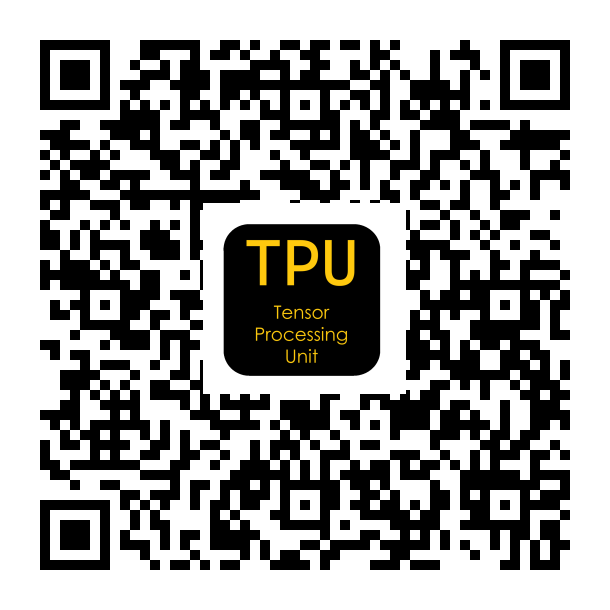
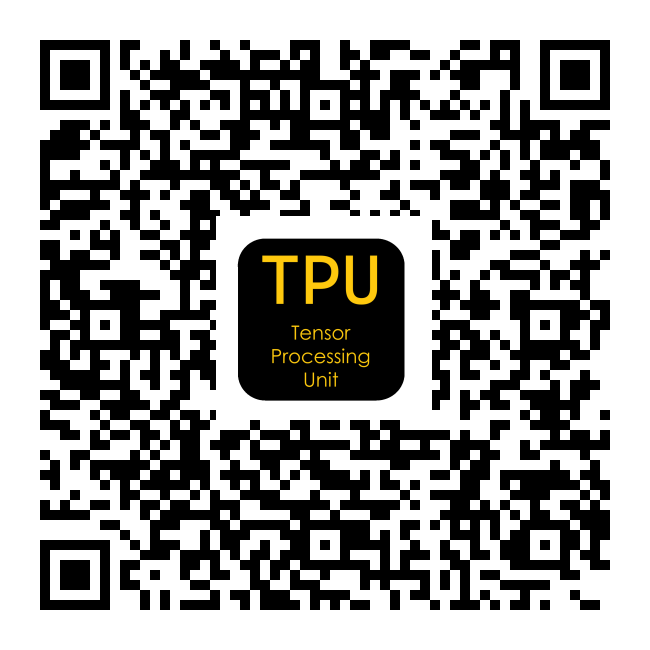
Update indes.html and replace tpu_upi.png with new image

diff --git a/index.html b/index.html
@@ -233,7 +233,7 @@ Support contributes to research in ISA design, AI acceleration models, and next-
 
 <br>
 
-<a href="upi://pay?pa=8688127533@fam&am=10&cu=INR&tn=Donation%20for%20TPU%20ISA%20Design%20To%20Priyam" class="btn">
+<a href="upi://pay?pa=pkghosh0110-1@okaxis&am=10&cu=INR&tn=Donation%20for%20TPU%20ISA%20Design%20To%20Priyam" class="btn">
 Donate via UPI
 </a>
 
